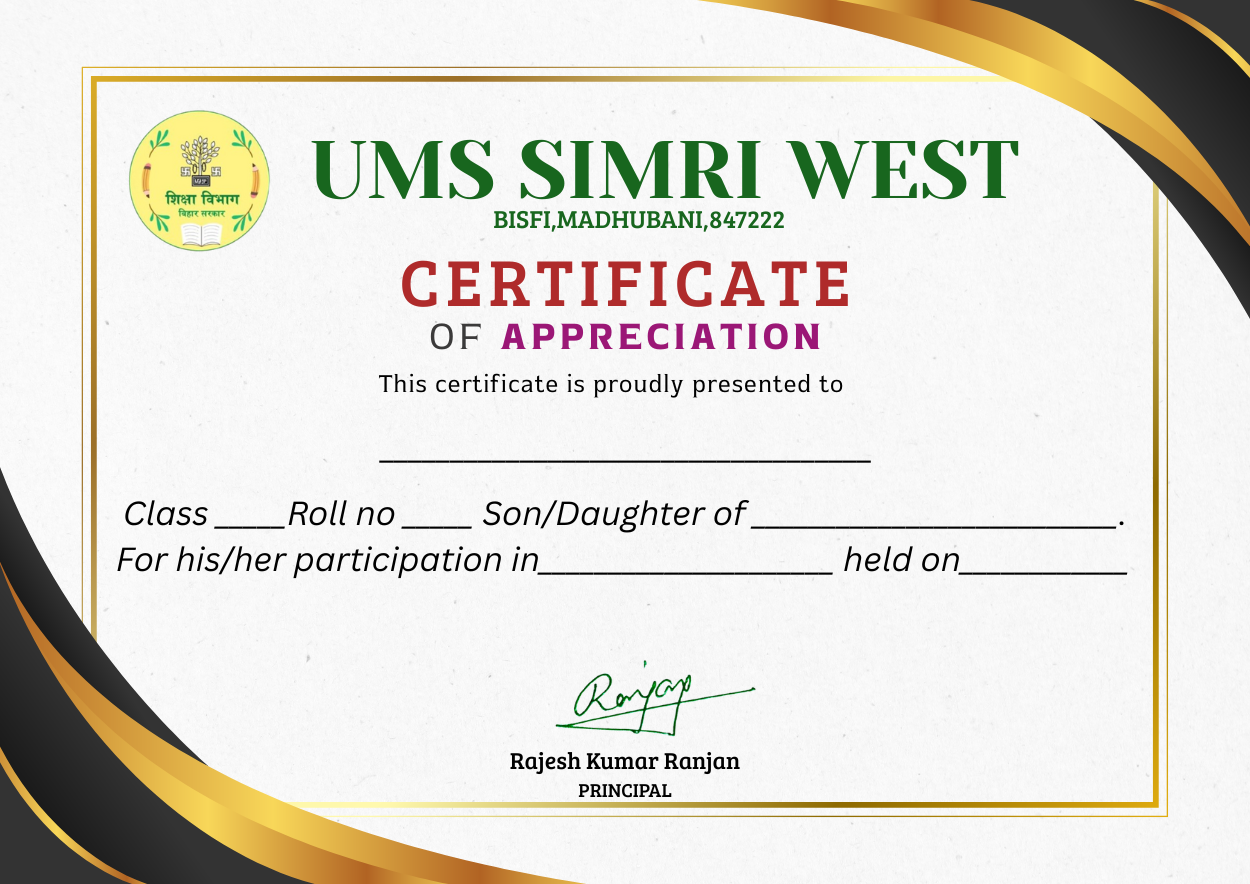
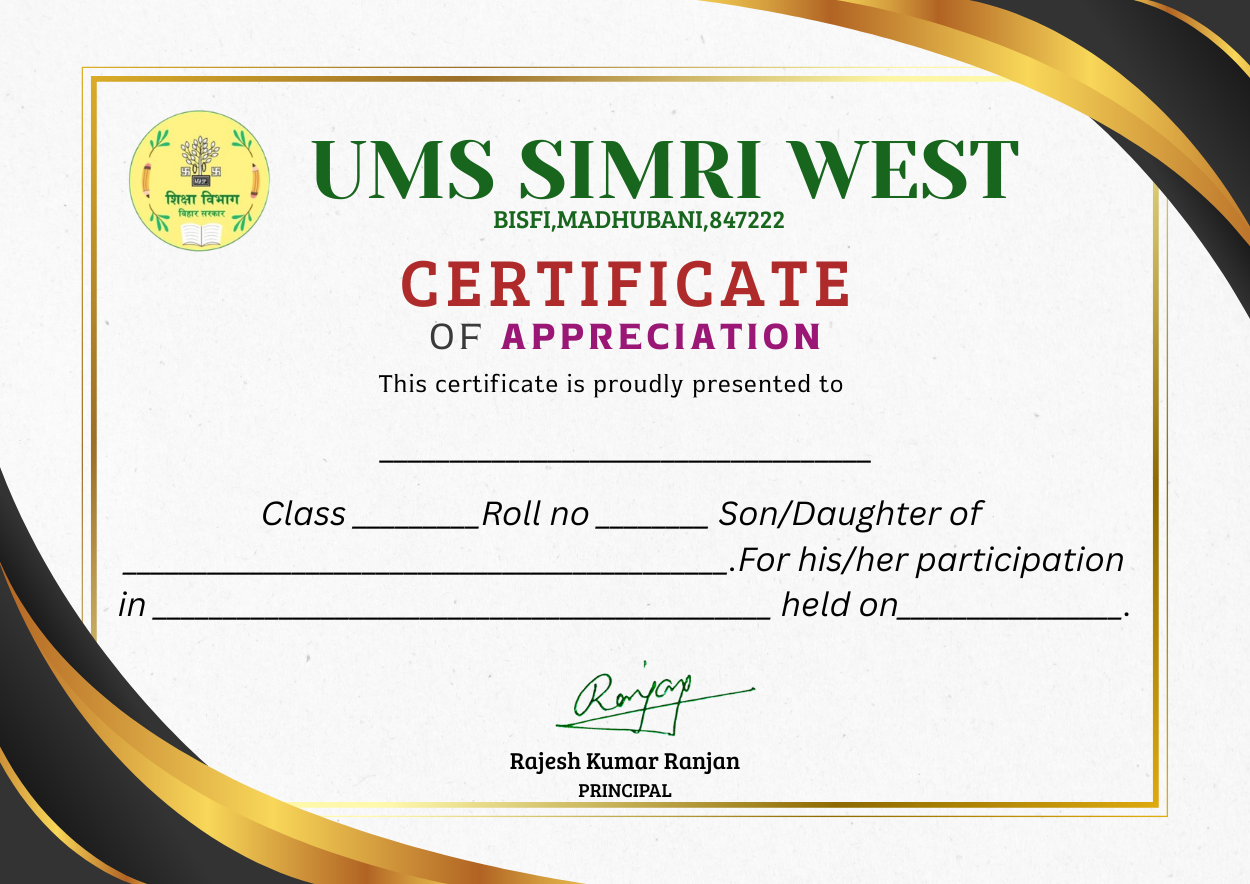
Add Reset Button

Changed region(s): [[0.0936, 0.5498, 0.9048, 0.7025]]

diff --git a/certificate.html b/certificate.html
@@ -1,3 +1,4 @@
+<!-- Add this in your <body> as-is — already includes reset functionality -->
 <!DOCTYPE html>
 <html lang="en">
 <head>
@@ -6,13 +7,9 @@
   <link rel="stylesheet" href="style.css" />
   <link rel="stylesheet" href="" id="userCertCss" />
   <link rel="stylesheet" href="css/ui-style.css" />
-
-  <!-- Firebase -->
   <script src="https://www.gstatic.com/firebasejs/8.10.1/firebase-app.js"></script>
   <script src="https://www.gstatic.com/firebasejs/8.10.1/firebase-auth.js"></script>
   <script src="firebase-config.js"></script>
-
-  <!-- html2canvas -->
   <script src="https://cdnjs.cloudflare.com/ajax/libs/html2canvas/1.4.1/html2canvas.min.js"></script>
 
   <style>
@@ -43,10 +40,9 @@
 
   <h2 class="gradient-title">Certificate Generator</h2>
   <p id="userEmail"></p>
-
   <button id="logoutBtn" onclick="manualLogout()">Logout</button>
 
-  <!-- 🌐 Superuser School Selector -->
+  <!-- Superuser School Selector -->
   <div id="schoolSelectorContainer" style="display: none; margin: 15px;">
     <label style="margin-right: 5px;">Select School:</label>
     <select id="schoolSelector" onchange="onSuperuserSchoolChange()" style="padding: 8px;">
@@ -99,15 +95,26 @@
   </div>
 
   <button id="downloadBtn" style="display: none;">Download Certificate</button>
+  <button id="resetBtn" onclick="resetCertificate()" style="
+    display: none;
+    margin-left: 17px;
+    background: linear-gradient(135deg, #dc8888, #ff1a1a, #c15151);
+    background-size: 200% auto;
+    color: white;
+    cursor: pointer;
+    padding: 10px 20px;
+    border-radius: 6px;
+    font-weight: bold;
+    transition: all 0.4s ease;
+    box-shadow: 0 0 8px rgba(255, 77, 77, 0.4);
+  ">Reset</button>
 
-  <!-- 🔔 Logout popup -->
+  <!-- Logout popup -->
   <div id="logoutPopup">✅ You have been logged out due to inactivity.</div>
 
   <script>
     const superuserEmail = "hrishavranjan2003@gmail.com";
-    let currentEmail = "";
-    let folderKey = "";
-    let isSuperuser = false;
+    let currentEmail = "", folderKey = "", isSuperuser = false;
 
     const emailMap = {
       "umssimariwest84722@gmail.com": "umss",
@@ -131,9 +138,7 @@
       if (!user) return window.location.href = "login.html";
       currentEmail = user.email;
       document.getElementById("userEmail").textContent = "✅ Logged in as: " + currentEmail;
-
       isSuperuser = currentEmail === superuserEmail;
-
       if (isSuperuser) {
         document.getElementById("schoolSelectorContainer").style.display = "block";
       } else {
@@ -157,10 +162,7 @@
     function loadTemplateAndCss() {
       const type = document.getElementById("certType").value;
       const key = folderKey;
-      const emailForTemplate = isSuperuser
-        ? (schoolEmailMap[key] || "superuser")
-        : currentEmail;
-
+      const emailForTemplate = isSuperuser ? (schoolEmailMap[key] || "superuser") : currentEmail;
       document.getElementById("templateImg").src = `templates/${type}/${emailForTemplate}.png`;
       document.getElementById("userCertCss").href = `css/${key}/${type}.css`;
     }
@@ -173,11 +175,9 @@
       document.getElementById("o_father").innerText = document.getElementById("fatherName").value.trim();
       document.getElementById("o_event").innerText = document.getElementById("eventName").value.trim();
 
-      // ✅ Date format: 25-06-25
       const rawDate = document.getElementById("date").value;
-      const dateParts = rawDate.split("-");
-      const formattedDate = `${dateParts[2]}-${dateParts[1]}-${dateParts[0].slice(2)}`;
-      document.getElementById("o_date").innerText = formattedDate;
+      const [y, m, d] = rawDate.split("-");
+      document.getElementById("o_date").innerText = `${d}-${m}-${y.slice(2)}`;
 
       const certType = document.getElementById("certType").value;
       if (certType === "excellence") {
@@ -189,6 +189,7 @@
 
       document.getElementById("certificate").style.display = "block";
       document.getElementById("downloadBtn").style.display = "inline-block";
+      document.getElementById("resetBtn").style.display = "inline-block";
     };
 
     document.getElementById("downloadBtn").onclick = () => {
@@ -202,6 +203,13 @@
       });
     };
 
+    function resetCertificate() {
+      document.getElementById("certForm").reset();
+      document.getElementById("certificate").style.display = "none";
+      document.getElementById("downloadBtn").style.display = "none";
+      document.getElementById("resetBtn").style.display = "none";
+    }
+
     function manualLogout() {
       if (confirm("Are you sure you want to logout?")) {
         firebase.auth().signOut().then(() => {
@@ -210,7 +218,6 @@
       }
     }
 
-    // ⏳ Inactivity logout with popup
     let inactivityTimer;
     function resetInactivityTimer() {
       clearTimeout(inactivityTimer);
@@ -221,7 +228,7 @@
             window.location.href = "login.html";
           });
         }, 2000);
-      }, 600000);
+      }, 600000); // 10 minutes
     }
 
     ['click', 'keydown', 'mousemove', 'scroll', 'touchstart'].forEach(evt =>

diff --git a/css/ums/excellence.css b/css/ums/excellence.css
@@ -3,7 +3,7 @@
   top: 49.5%;
   left: 47%;
   transform: translate(-50%, -50%);
-  font-size: 30px;
+  font-size: 50px;
   font-family: 'Lucida Handwriting', cursive;
   font-weight: bold;
   color: #000;
@@ -22,7 +22,7 @@
 .rollOverlay {
   position: absolute;
   top: 56%;
-  left: 55%;
+  left: 59%;
   transform: translate(-50%, -50%);
   font-size: 26px;
   font-family: 'Lucida Handwriting', cursive;
@@ -32,7 +32,7 @@
 .fatherOverlay {
   position: absolute;
   top: 61%;
-  left: 31%;
+  left: 37%;
   transform: translate(-50%, -50%);
   font-size: 24px;
   font-family: 'Lucida Handwriting', cursive;
@@ -42,7 +42,7 @@
 .eventOverlay {
   position: absolute;
   top: 66%;
-  left: 41%;
+  left: 56.5%;
   transform: translate(-50%, -50%);
   font-size: 26px;
   font-family: 'Lucida Handwriting', cursive;
@@ -52,7 +52,7 @@
 .dateOverlay {
   position: absolute;
   top: 71%;
-  left: 34%;
+  left: 37%;
   transform: translate(-50%, -50%);
   font-size: 22px;
   font-family: 'Lucida Handwriting', cursive;

diff --git a/css/ums/appreciation.css b/css/ums/appreciation.css
@@ -1,7 +1,7 @@
 .nameOverlay {
   position: absolute;
   top: 50%;
-  left: 47%;
+  left: 49.5%;
   transform: translate(-50%, -50%);
   font-size: 500px;
   font-family: 'Lucida Handwriting', cursive;
@@ -31,8 +31,8 @@
 
 .fatherOverlay {
   position: absolute;
-  top: 57.5%;
-  left: 72%;
+  top: 62.5%;
+  left: 35%;
   transform: translate(-50%, -50%);
   font-size: 24px;
   font-family: 'Lucida Handwriting', cursive;
@@ -42,7 +42,7 @@
 .eventOverlay {
   position: absolute;
   top: 68%;
-  left: 19.4%;
+  left: 37%;
   transform: translate(-50%, -50%);
   font-size: 26px;
   font-family: 'Lucida Handwriting', cursive;
